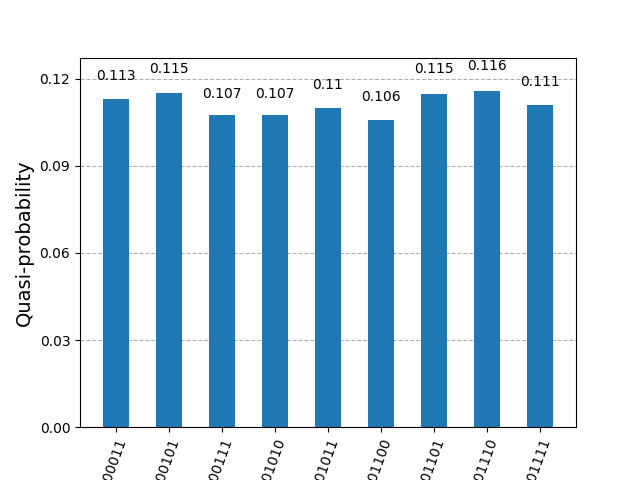
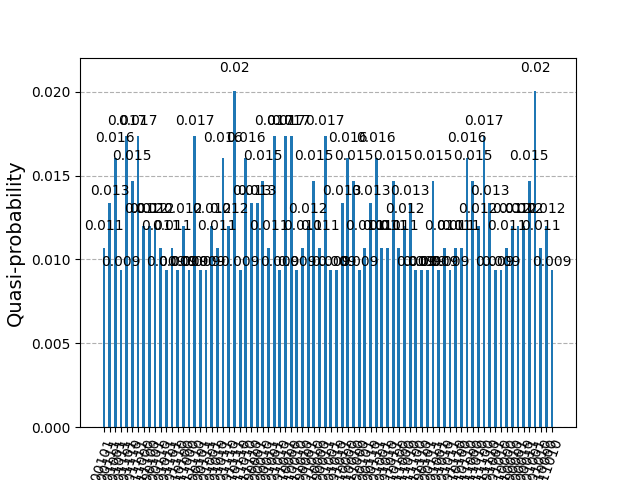
fixed point grover

diff --git a/SAT/fixedPointQuantum.py b/SAT/fixedPointQuantum.py
@@ -1,16 +1,142 @@
+import numpy as np
+import matplotlib.pyplot as plt
 
+from qiskit import QuantumCircuit, transpile
+from qiskit.visualization import circuit_drawer
+from qiskit.transpiler.passes import RemoveBarriers
+from qiskit.primitives import Sampler
+from qiskit.visualization import plot_histogram
 
-def get_repr():
-    pass
+from utils import structural_check
 
-def oracle():
-    pass
+def chebyshev(n, x):
+    if abs(x) <= 1:
+        return np.cos(n * np.arccos(x))
+    else:
+        return np.cosh(n * np.arccosh(x))
 
-def diffuser():
-    pass
+def get_repr(qc, is_inv, clause, i):
+    # Track which qubits we need to flip back later
+    flipped_qubits = []
+    
+    # For OR logic in CNF, we need to detect when the clause is NOT satisfied
+    # This happens when all literals in the clause are false
+    for var in clause:
+        var_idx = abs(var) - 1  # Convert to 0-indexed
+        
+        # For positive literals, we want to detect when they're false
+        # For negative literals, we want to detect when they're true
+        if var > 0:  # Only flip POSITIVE variables
+            qc.x(var_idx)
+            flipped_qubits.append(var_idx)
+    
+    # Control qubits for the multi-controlled X gate
+    control_qubits = [abs(var) - 1 for var in clause]
+    
+    # For uncomputing, invert the ancilla if needed
+    if is_inv:
+        qc.x(i)
+    
+    # Apply multi-controlled-X to detect when all literals evaluate to false
+    qc.mcx(control_qubits, i)
+    
+    # For computing, invert the ancilla to make it 1 when clause is satisfied
+    if not is_inv:
+        qc.x(i)
+    
+    # Restore the original state of the qubits
+    for var_idx in flipped_qubits:
+        qc.x(var_idx)
+    
+    qc.barrier()
+    
+def oracle(qc, n_variables, beta, cnf, n):
+    # print(f"DEBUG: n_variables={n_variables}, cnf={cnf}, n={n}")
+    for i, clause in enumerate(cnf):
+        # print(f"DEBUG: clause={clause}, i={i}, n_variables+i={n_variables+i}")
+        get_repr(qc, False, clause, n_variables + i)
 
-def createCircuit():
-    pass
+    qc.mcp(beta, list(range(n_variables,n-1)), n-1)
+    qc.barrier()
 
-def solveFixedQuantunSAT():
-    pass
+    # Uncompute ancilla qubits
+    for i in range(len(cnf)-1, -1, -1):
+        get_repr(qc, True, cnf[i], n_variables + i)
+
+def diffuser(qc, n, alpha):
+    qc.h(range(n))
+    qc.x(range(n))
+    qc.mcp(alpha, list(range(n-1)), n - 1)
+    qc.x(range(n))
+    qc.h(range(n))
+    qc.barrier()
+
+def create_circuit(qc, n_variables, cnf, n, alpha, beta):
+    oracle(qc, n_variables, beta,  cnf, n)
+    diffuser(qc, n_variables, alpha)
+
+def createCircuit(n_variables, l_iterations, cnf, n, delta = 0.1):
+    qc = QuantumCircuit(n)
+    
+    qc.h(list(range(n_variables)))
+    qc.barrier()
+    
+    # L = 2l + 1
+    L = 2 * l_iterations + 1
+    
+    gamma_inv = chebyshev(1/L, 1/delta)
+    
+    
+    print("ALPHA               BETA")
+    
+    for i in range(1, l_iterations + 1):
+        alpha_i = 2 * np.arctan2(1, np.tan(2*np.pi * i / L)) * np.sqrt(1 - 1/(gamma_inv**2))
+        beta_i = -2 * np.arctan2(1, np.tan(2*np.pi *(L-i) / L)) * np.sqrt(1 - 1/(gamma_inv**2))
+        
+        print(alpha_i, beta_i)
+    
+        create_circuit(qc, n_variables, cnf, n, alpha_i, beta_i)
+    
+    qc.barrier()
+    
+    return qc
+
+def solveFixedQuantunSAT(cnf, debug=False):
+    
+    # as usual structural check for the CNF
+    structural_check(cnf)
+    
+    variables = set()
+    for clause in cnf:
+        for var in clause:
+            variables.add(abs(var))
+            
+    n_variables = len(variables)
+    n_clauses = len(cnf)
+    
+    n = n_variables + n_clauses
+    
+    l_iterations = int(np.ceil(np.sqrt(2**n_variables) / 4))
+    print(f"LOG: using {n_variables} variables and {l_iterations} iterations")
+    qc = createCircuit(n_variables, l_iterations, cnf, n)
+    
+    qc.measure_all()
+    
+    if debug:
+        circuit_drawer(qc, output="mpl")
+        plt.savefig("debug/fixed-scircuit.png")
+        plt.close()
+    
+    qc = RemoveBarriers()(qc)
+    optimized_qc = transpile(qc, optimization_level=3)
+    
+    result = Sampler().run([optimized_qc], shots=1024).result()
+    
+    counts = result.quasi_dists[0]
+    
+    counts = counts.binary_probabilities(num_bits=n)
+    
+    if debug: 
+        plot_histogram(counts)
+        plt.savefig("debug/fixed-histogram.png")
+        plt.close()

diff --git a/workbench.py b/workbench.py
@@ -1,18 +1,21 @@
 from SAT.quantum import solveQuantumSAT
 from SAT.classical import solveClassicalSAT
+from SAT.fixedPointQuantum import solveFixedQuantunSAT
 
-# new_cnf = [[1, 5, 2], [-1, -5, 2], [-1, -5, -2], [3, 8, 4], [-3, -8, 4], [-3, -8, -4], [6, 9, 7], [-6, -9, 7], [-6, -9, -7]]
-new_cnf = [[2, 3], [1, 4]]
+new_cnf = [[1, 5, 2], [-1, -5, 2], [-1, -5, -2], [3, 8, 4], [-3, -8, 4], [-3, -8, -4], [6, 9, 7], [-6, -9, 7], [-6, -9, -7]]
+# new_cnf = [[2, 3], [1, 4]]
 
-is_sat, model = solveClassicalSAT(new_cnf)
+# is_sat, model = solveClassicalSAT(new_cnf)
 
-is_sat, quantum_solutions = solveQuantumSAT(new_cnf, debug=True)
+# is_sat, quantum_solutions = solveQuantumSAT(new_cnf, debug=True)
 
-print(model)
+# print(model)
 
-print(quantum_solutions)
+# print(quantum_solutions)
 
-if model in quantum_solutions:
-    print("The quantum solution is correct")
-else:
-    print("The quantum solution is incorrect")
+# if model in quantum_solutions:
+#     print("The quantum solution is correct")
+# else:
+#     print("The quantum solution is incorrect")
+
+solveFixedQuantunSAT(new_cnf, debug=True)
